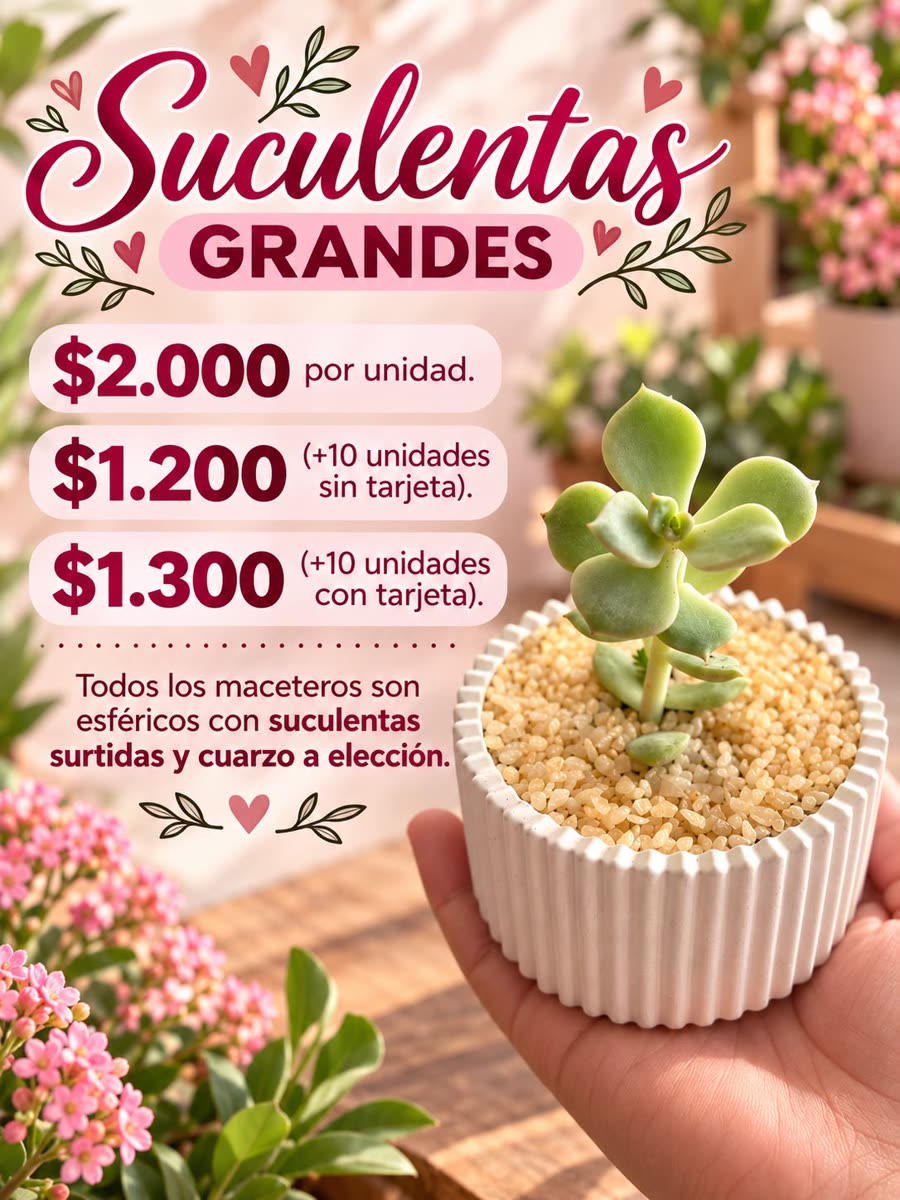
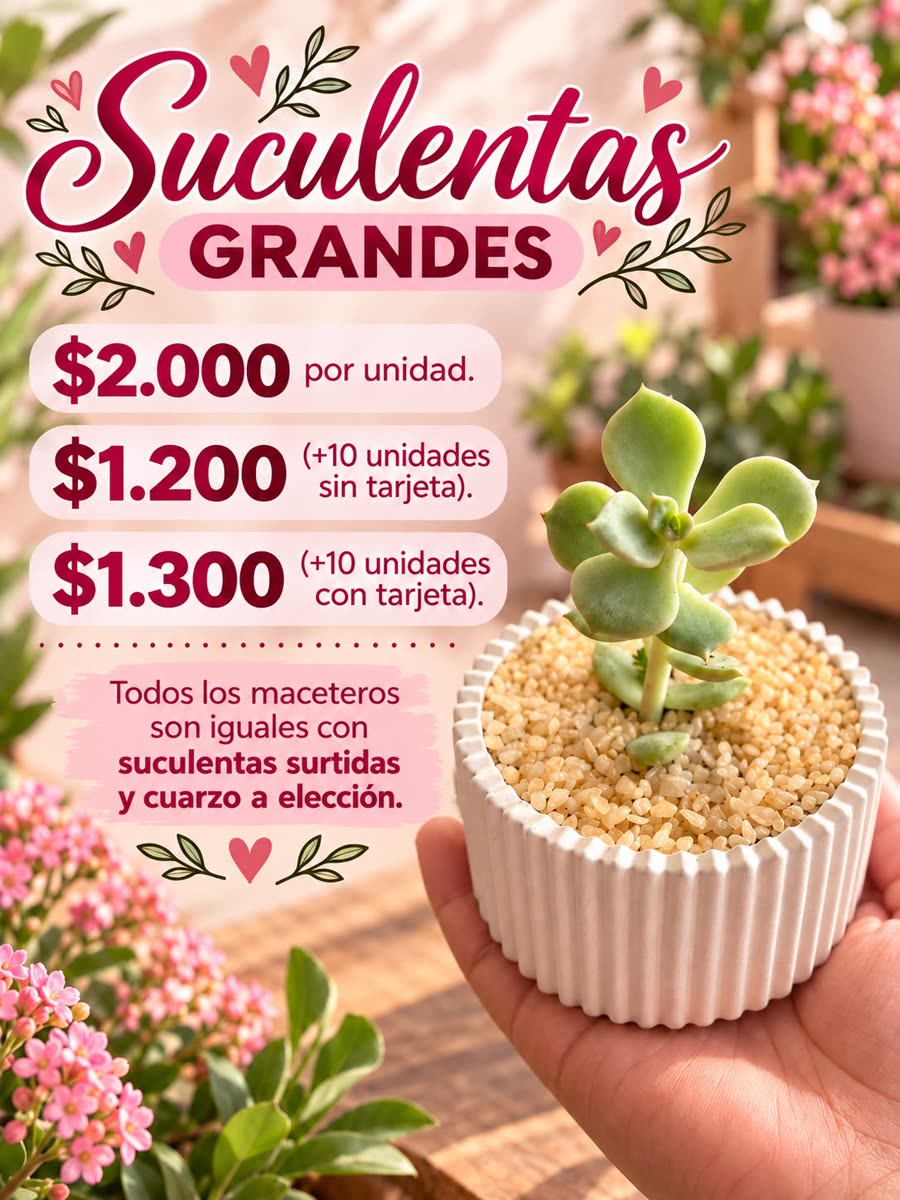
Afiches nuevos de suculentas grandes (maceteros iguales)

diff --git a/index.html b/index.html
@@ -366,7 +366,7 @@ form.f label.acepto a{color:var(--verde)}
 
 <section class="catalogo" id="catalogo"><div class="wrap">
   <div class="cab aparece"><div><span class="ojo">Catálogo</span><h2>Arma tu <em>pedido</em></h2></div><p>Toca «Agregar», elige la cantidad y revisa tu pedido. Todos los maceteros y suculentas son surtidos, con cuarzo de color a elección.</p></div>
-  <div class="prods aparece"><article class="prod" data-k="mini"><div class="foto"><img src="assets/cat-mini.jpg" alt="Suculentas mini: ver en grande" loading="lazy"><span class="lupa"><svg viewBox="0 0 24 24" fill="none" stroke="currentColor" stroke-width="2"><circle cx="11" cy="11" r="7"/><path d="m20 20-4-4"/></svg></span><span class="desde"><small>desde</small>$1.000</span></div><div class="info"><h3>Suculentas mini</h3><p>Maceteros y suculentas surtidos, con cuarzo de color a elección.</p><ul class="tabla"><li><span>Menos de 10 u., sin tarjeta</span><b>$1.500</b></li><li><span>Desde 10 u., sin tarjeta</span><b>$1.000</b></li><li><span>Desde 10 u., con tarjeta</span><b>$1.100</b></li></ul><div class="accion"><button class="agregar" type="button">Agregar</button></div></div></article><article class="prod" data-k="trenzado"><div class="foto"><img src="assets/cat-trenzado.jpg" alt="Mini en macetero trenzado: ver en grande" loading="lazy"><span class="lupa"><svg viewBox="0 0 24 24" fill="none" stroke="currentColor" stroke-width="2"><circle cx="11" cy="11" r="7"/><path d="m20 20-4-4"/></svg></span><span class="desde"><small>desde</small>$1.000</span></div><div class="info"><h3>Mini en macetero trenzado</h3><p>Macetero trenzado con suculentas surtidas y cuarzo a elección.</p><ul class="tabla"><li><span>Menos de 10 u., sin tarjeta</span><b>$1.500</b></li><li><span>Desde 10 u., sin tarjeta</span><b>$1.000</b></li><li><span>Desde 10 u., con tarjeta</span><b>$1.100</b></li></ul><div class="accion"><button class="agregar" type="button">Agregar</button></div></div></article><article class="prod" data-k="grandes"><div class="foto"><img src="assets/cat-grandes.jpg" alt="Suculentas grandes: ver en grande" loading="lazy"><span class="lupa"><svg viewBox="0 0 24 24" fill="none" stroke="currentColor" stroke-width="2"><circle cx="11" cy="11" r="7"/><path d="m20 20-4-4"/></svg></span><span class="desde"><small>desde</small>$1.200</span><div class="minis"><button type="button" data-img="cat-grandes" class="si" aria-label="Ver afiche 1"><img src="assets/cat-grandes.jpg" alt="" loading="lazy"></button><button type="button" data-img="cat-grandes-2" aria-label="Ver afiche 2"><img src="assets/cat-grandes-2.jpg" alt="" loading="lazy"></button><button type="button" data-img="cat-grandes-3" aria-label="Ver afiche 3"><img src="assets/cat-grandes-3.jpg" alt="" loading="lazy"></button></div></div><div class="info"><h3>Suculentas grandes</h3><p>Maceteros esféricos con suculentas surtidas y cuarzo a elección.</p><ul class="tabla"><li><span>Por unidad</span><b>$2.000</b></li><li><span>Desde 10 u., sin tarjeta</span><b>$1.200</b></li><li><span>Desde 10 u., con tarjeta</span><b>$1.300</b></li></ul><div class="accion"><button class="agregar" type="button">Agregar</button></div></div></article><article class="prod" data-k="jardin" data-consulta="1"><div class="foto"><img src="assets/jardin-pareja.jpg" alt="Mini jardín de suculentas: ver en grande" loading="lazy"><span class="lupa"><svg viewBox="0 0 24 24" fill="none" stroke="currentColor" stroke-width="2"><circle cx="11" cy="11" r="7"/><path d="m20 20-4-4"/></svg></span><span class="desde">Consultar</span></div><div class="info"><h3>Mini jardín de suculentas</h3><p>Varias suculentas en un mismo macetero, hecho a mano: a tu gusto y personalizado, o según lo que vaya saliendo en stock.</p><ul class="tabla"><li><span>Precio y stock</span><b>a consultar</b></li></ul><div class="accion"><a class="agregar consultar" href="https://wa.me/56982474576?text=Hola%20Sucu%20Store%20%F0%9F%AA%B4%2C%20vi%20su%20p%C3%A1gina%20web%20y%20quiero%20consultar%20la%20disponibilidad%20de%20mini%20jardines." target="_blank" rel="noopener">Consultar disponibilidad</a></div></div></article></div>
+  <div class="prods aparece"><article class="prod" data-k="mini"><div class="foto"><img src="assets/cat-mini.jpg" alt="Suculentas mini: ver en grande" loading="lazy"><span class="lupa"><svg viewBox="0 0 24 24" fill="none" stroke="currentColor" stroke-width="2"><circle cx="11" cy="11" r="7"/><path d="m20 20-4-4"/></svg></span><span class="desde"><small>desde</small>$1.000</span></div><div class="info"><h3>Suculentas mini</h3><p>Maceteros y suculentas surtidos, con cuarzo de color a elección.</p><ul class="tabla"><li><span>Menos de 10 u., sin tarjeta</span><b>$1.500</b></li><li><span>Desde 10 u., sin tarjeta</span><b>$1.000</b></li><li><span>Desde 10 u., con tarjeta</span><b>$1.100</b></li></ul><div class="accion"><button class="agregar" type="button">Agregar</button></div></div></article><article class="prod" data-k="trenzado"><div class="foto"><img src="assets/cat-trenzado.jpg" alt="Mini en macetero trenzado: ver en grande" loading="lazy"><span class="lupa"><svg viewBox="0 0 24 24" fill="none" stroke="currentColor" stroke-width="2"><circle cx="11" cy="11" r="7"/><path d="m20 20-4-4"/></svg></span><span class="desde"><small>desde</small>$1.000</span></div><div class="info"><h3>Mini en macetero trenzado</h3><p>Macetero trenzado con suculentas surtidas y cuarzo a elección.</p><ul class="tabla"><li><span>Menos de 10 u., sin tarjeta</span><b>$1.500</b></li><li><span>Desde 10 u., sin tarjeta</span><b>$1.000</b></li><li><span>Desde 10 u., con tarjeta</span><b>$1.100</b></li></ul><div class="accion"><button class="agregar" type="button">Agregar</button></div></div></article><article class="prod" data-k="grandes"><div class="foto"><img src="assets/cat-grandes.jpg" alt="Suculentas grandes: ver en grande" loading="lazy"><span class="lupa"><svg viewBox="0 0 24 24" fill="none" stroke="currentColor" stroke-width="2"><circle cx="11" cy="11" r="7"/><path d="m20 20-4-4"/></svg></span><span class="desde"><small>desde</small>$1.200</span><div class="minis"><button type="button" data-img="cat-grandes" class="si" aria-label="Ver afiche 1"><img src="assets/cat-grandes.jpg" alt="" loading="lazy"></button><button type="button" data-img="cat-grandes-2" aria-label="Ver afiche 2"><img src="assets/cat-grandes-2.jpg" alt="" loading="lazy"></button><button type="button" data-img="cat-grandes-3" aria-label="Ver afiche 3"><img src="assets/cat-grandes-3.jpg" alt="" loading="lazy"></button></div></div><div class="info"><h3>Suculentas grandes</h3><p>Suculentas surtidas en macetero, con cuarzo a elección.</p><ul class="tabla"><li><span>Por unidad</span><b>$2.000</b></li><li><span>Desde 10 u., sin tarjeta</span><b>$1.200</b></li><li><span>Desde 10 u., con tarjeta</span><b>$1.300</b></li></ul><div class="accion"><button class="agregar" type="button">Agregar</button></div></div></article><article class="prod" data-k="jardin" data-consulta="1"><div class="foto"><img src="assets/jardin-pareja.jpg" alt="Mini jardín de suculentas: ver en grande" loading="lazy"><span class="lupa"><svg viewBox="0 0 24 24" fill="none" stroke="currentColor" stroke-width="2"><circle cx="11" cy="11" r="7"/><path d="m20 20-4-4"/></svg></span><span class="desde">Consultar</span></div><div class="info"><h3>Mini jardín de suculentas</h3><p>Varias suculentas en un mismo macetero, hecho a mano: a tu gusto y personalizado, o según lo que vaya saliendo en stock.</p><ul class="tabla"><li><span>Precio y stock</span><b>a consultar</b></li></ul><div class="accion"><a class="agregar consultar" href="https://wa.me/56982474576?text=Hola%20Sucu%20Store%20%F0%9F%AA%B4%2C%20vi%20su%20p%C3%A1gina%20web%20y%20quiero%20consultar%20la%20disponibilidad%20de%20mini%20jardines." target="_blank" rel="noopener">Consultar disponibilidad</a></div></div></article></div>
 </div></section>
 
 <section class="pedido" id="pedido"><div class="wrap">
